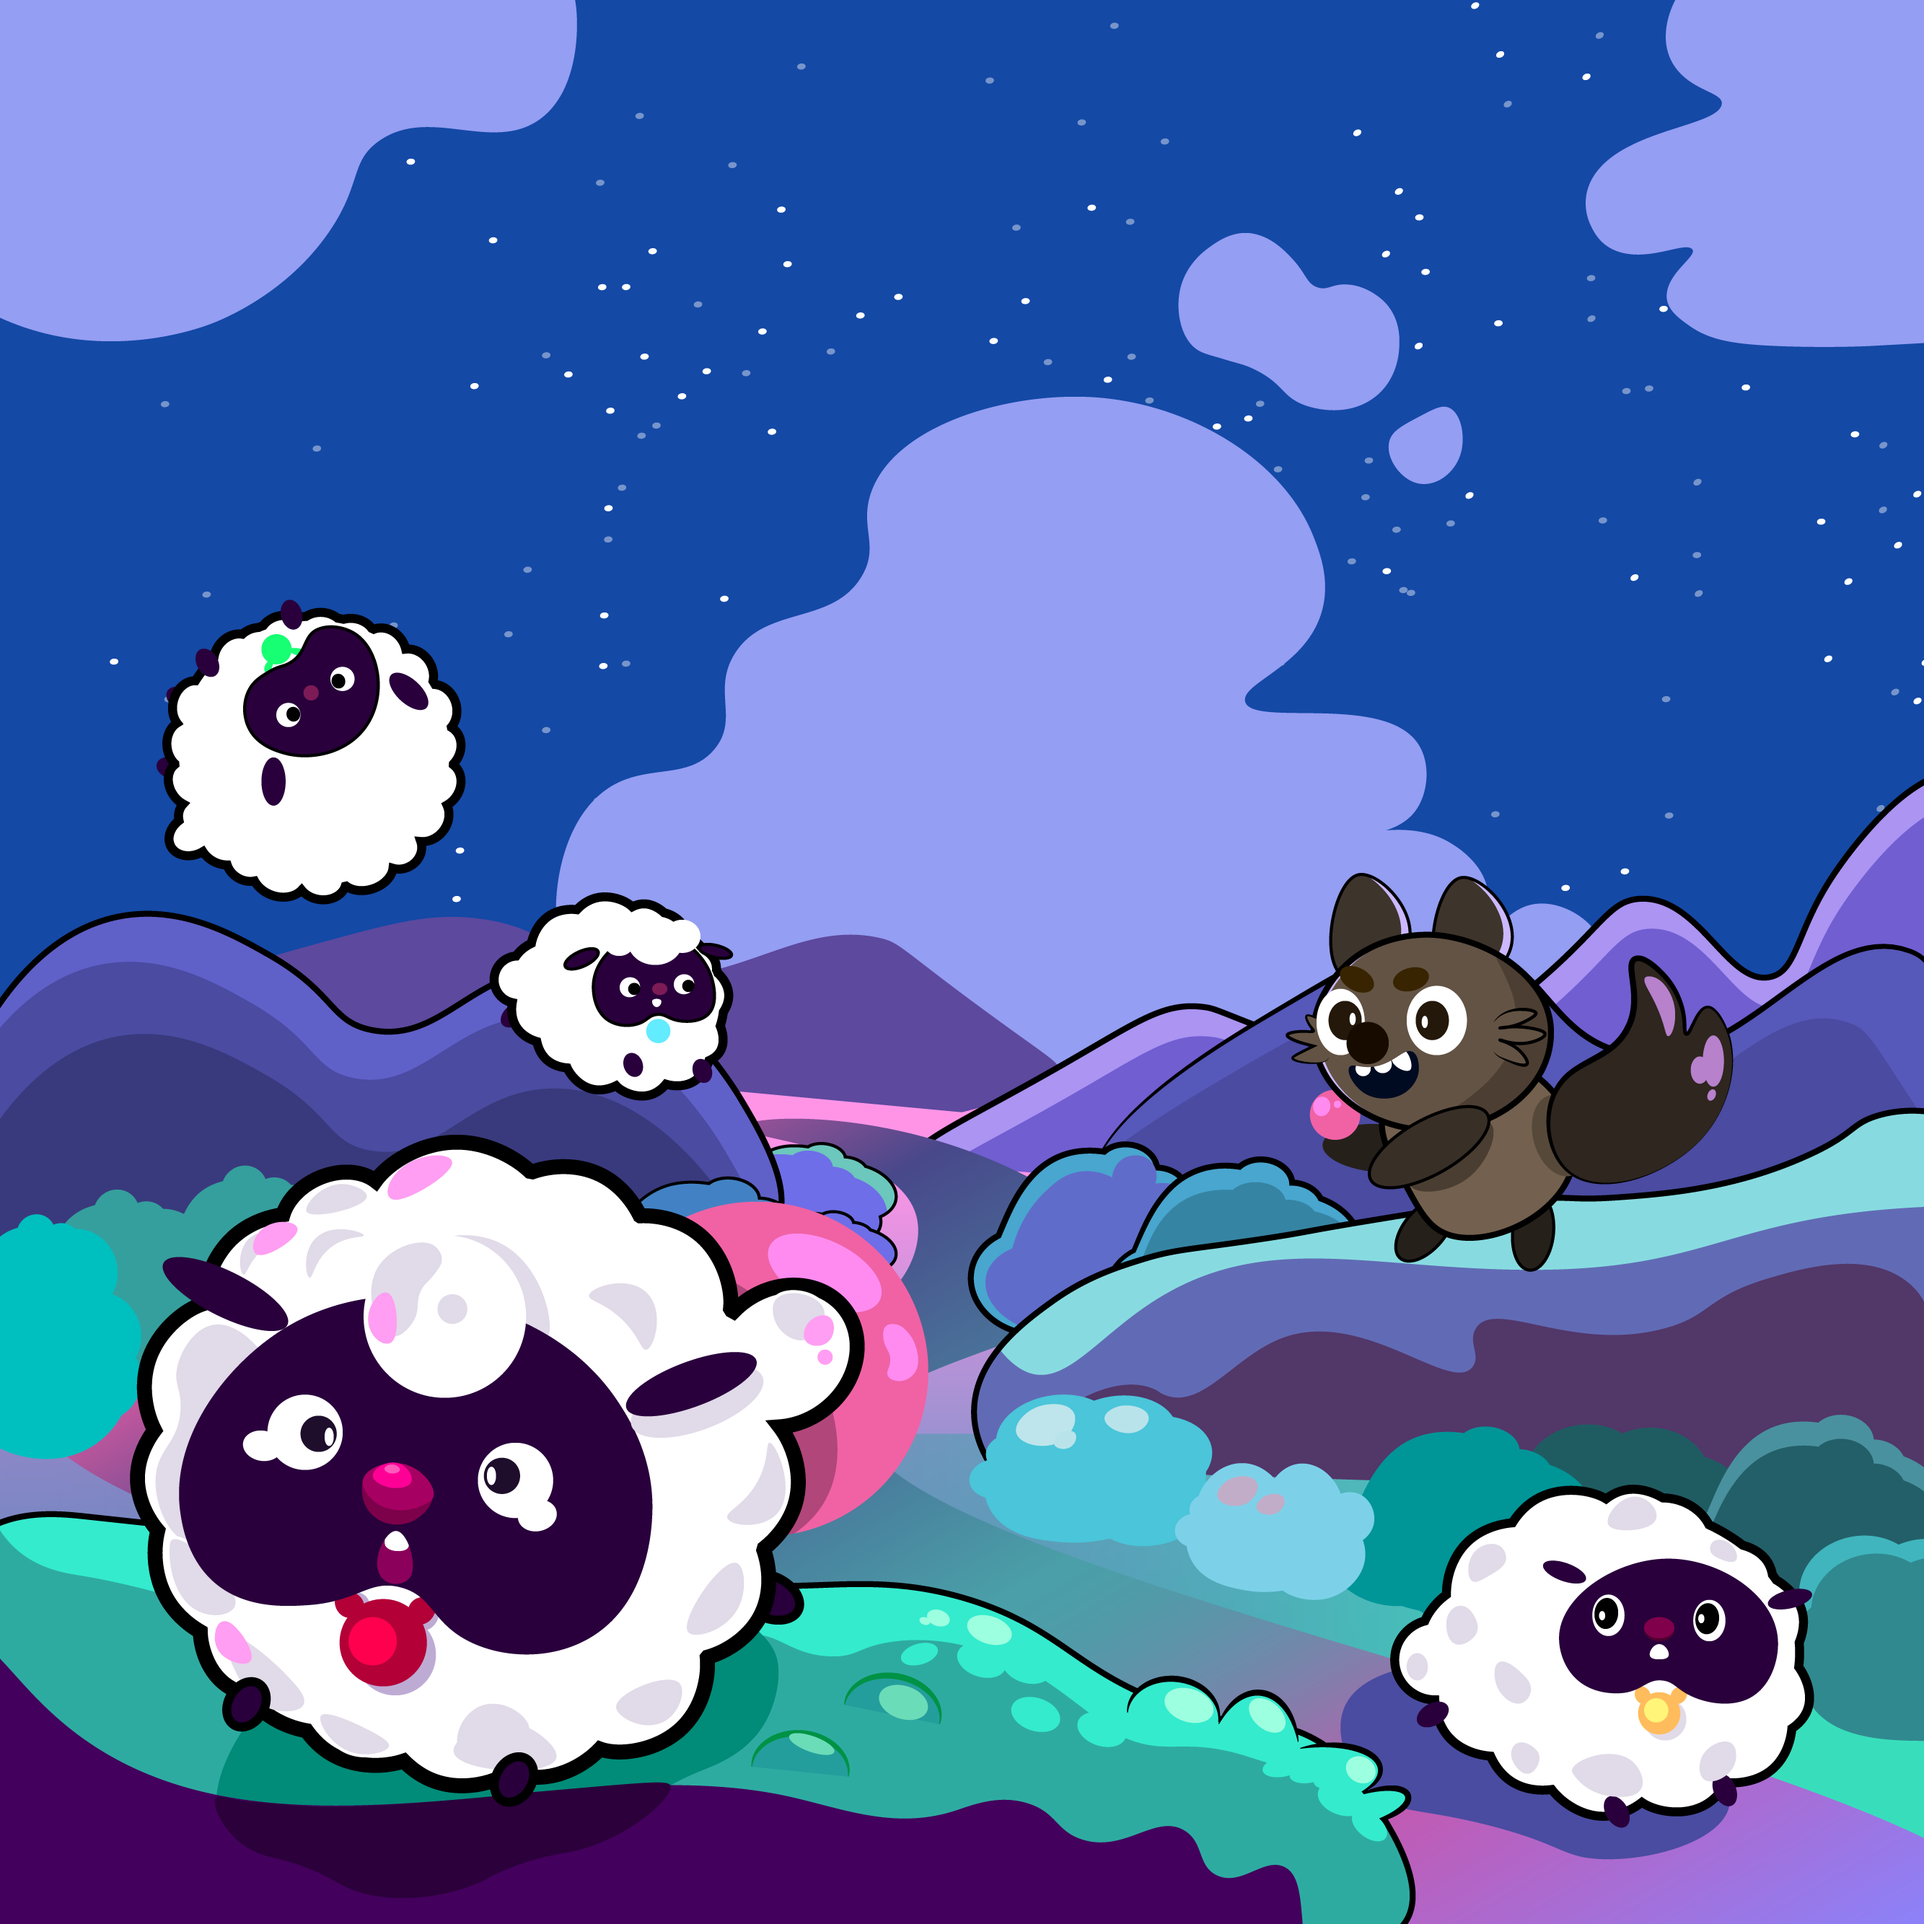
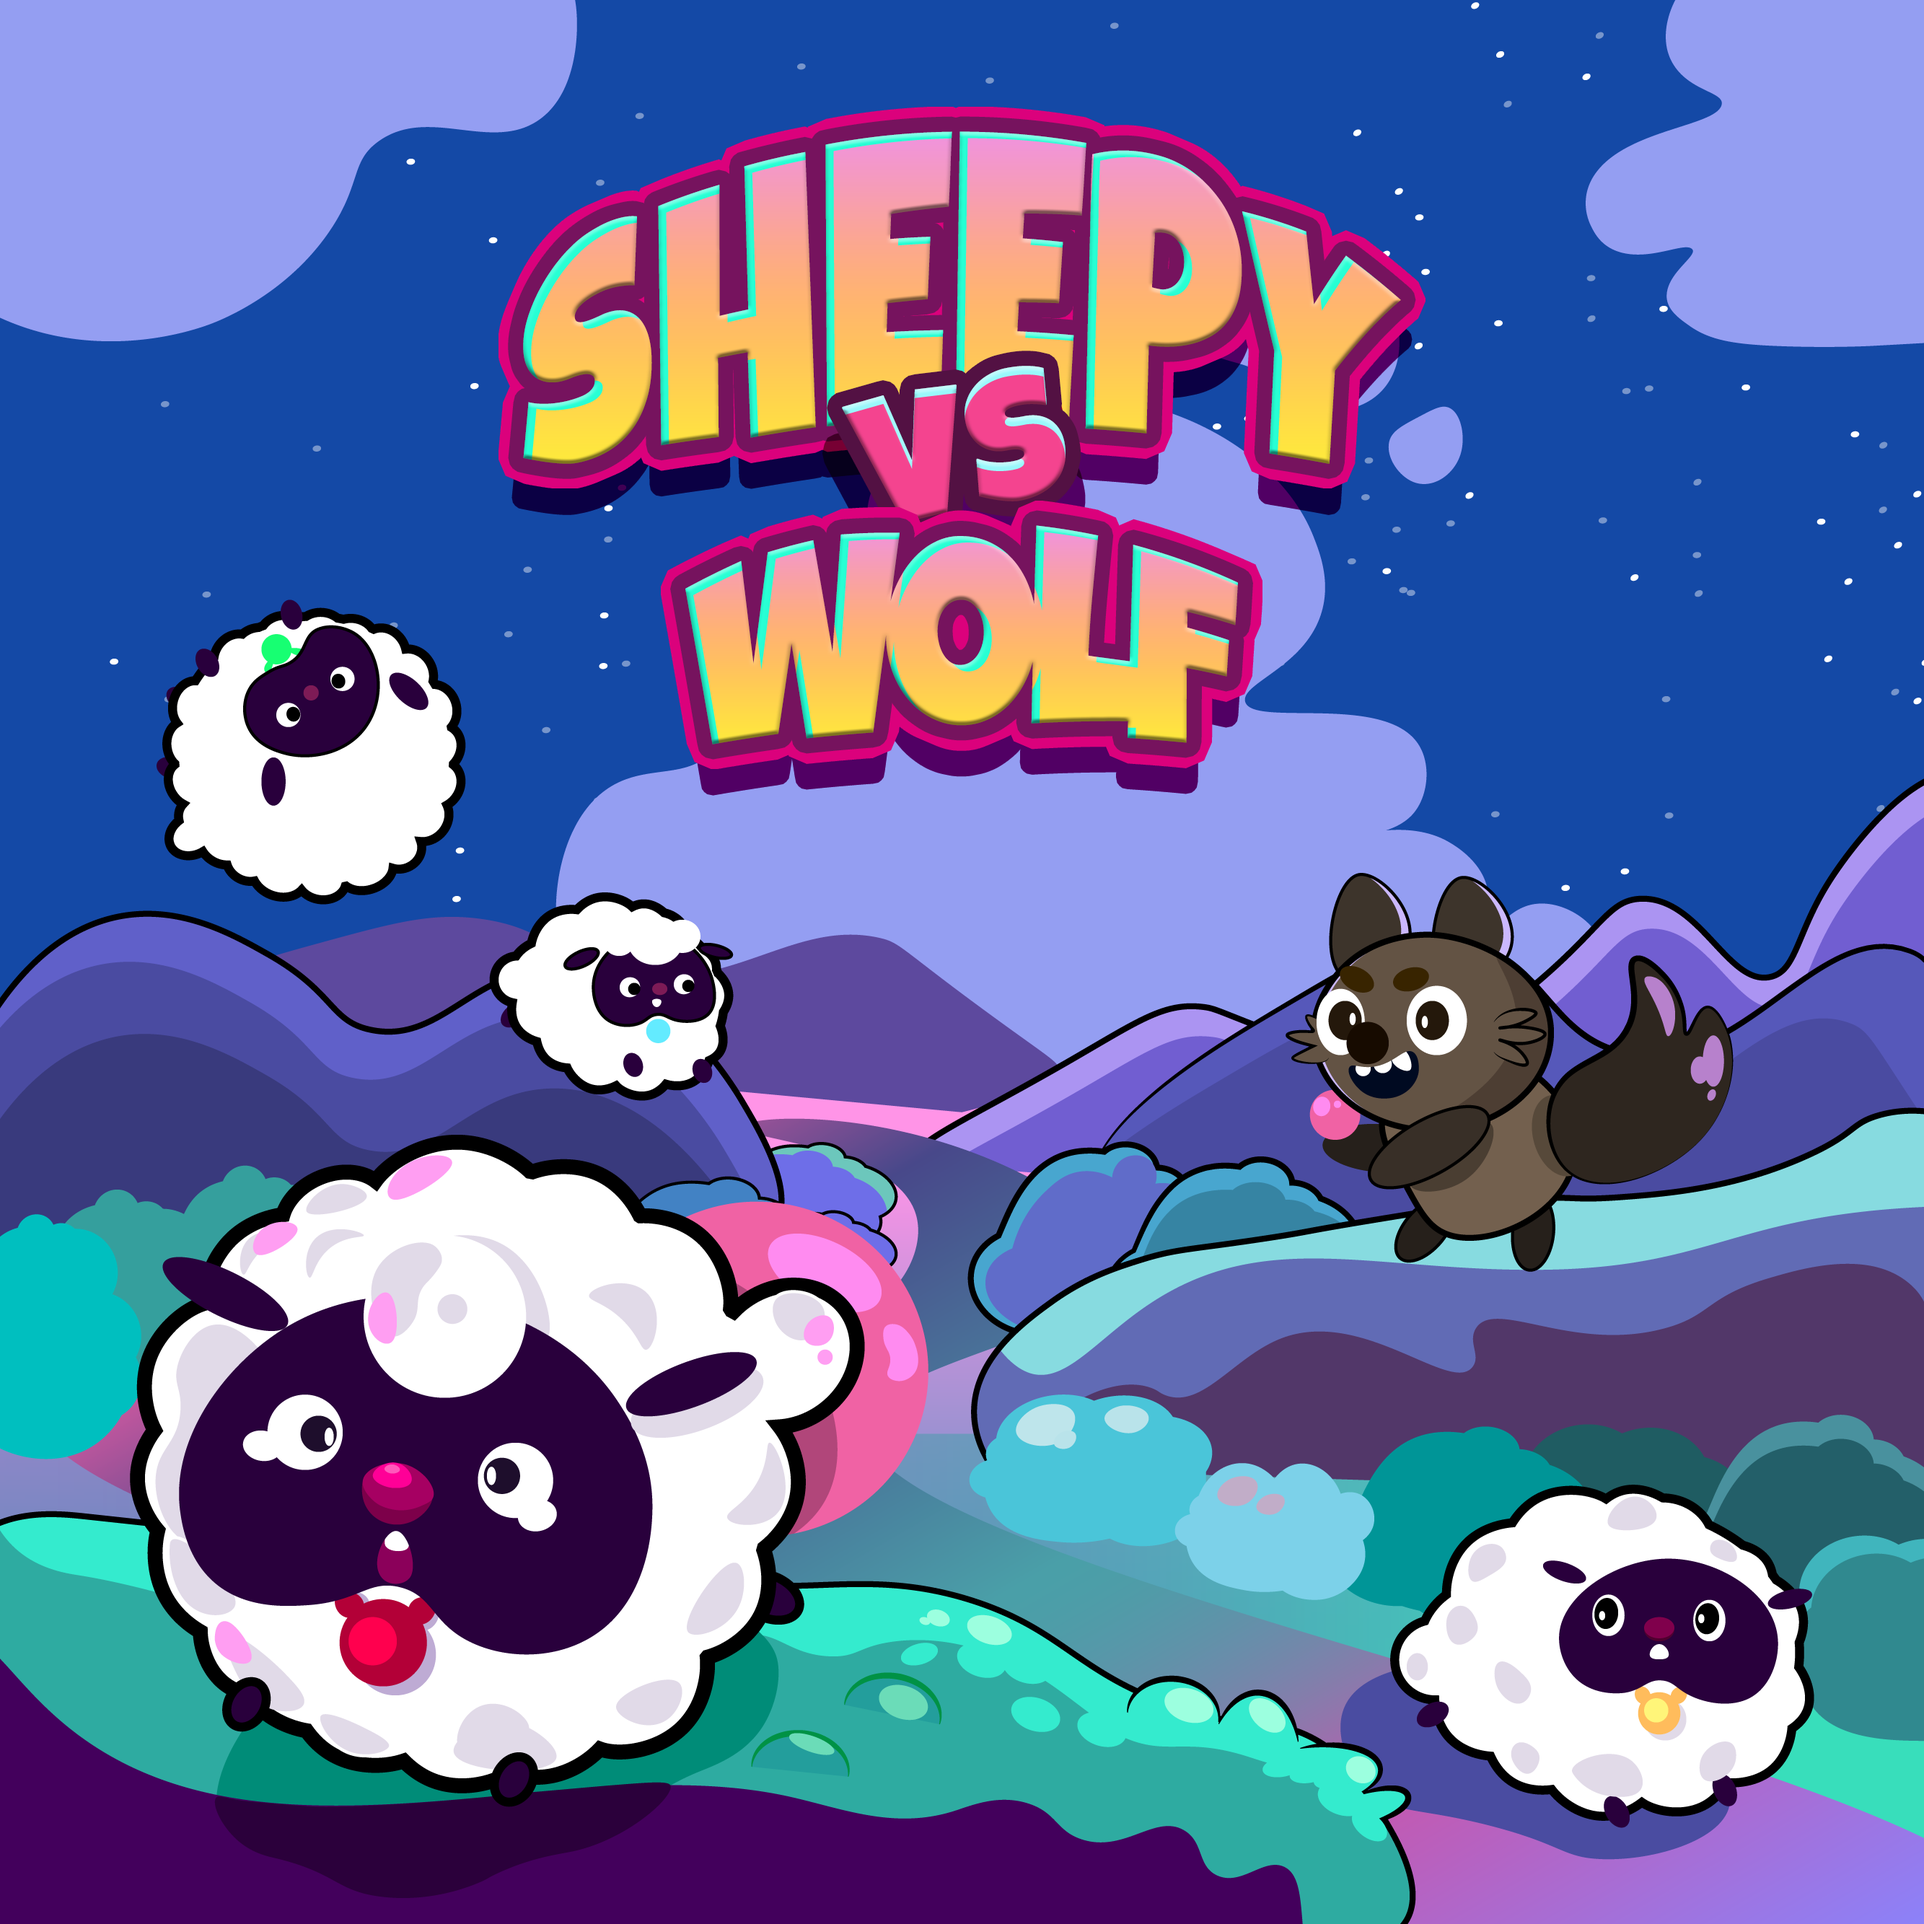
Decorate StartPage

Changed region(s): [[0.249, 0.0311, 0.7469, 0.4357]]

diff --git a/src/com/sheepy/catchme/StartScene.java b/src/com/sheepy/catchme/StartScene.java
@@ -1,20 +1,50 @@
 package com.sheepy.catchme;
 import java.awt.*;
+import java.awt.image.BufferedImage;
+import java.io.IOException;
+
+import javax.imageio.ImageIO;
 import javax.swing.*;
 public class StartScene extends JPanel {
 	private static final long serialVersionUID = 1L;
 	private JFrame fr;
-	private JPanel buttons;
-	
+	private JButton bn1, bn2;
 	public StartScene() {
 		fr = new JFrame(Game.TITLE);
-		buttons = new JPanel(new GridBagLayout());
-		fr.setDefaultCloseOperation(JFrame.EXIT_ON_CLOSE);
+		fr.setDefaultCloseOperation(WindowConstants.EXIT_ON_CLOSE);
 
-        buttons.add(new JButton("Start"));
-		fr.add(buttons);
+		this.setLayout(new GridBagLayout());
+		bn1 = new JButton("Start");
+		bn1.setFont(new Font("TimesRoman", Font.BOLD, 20));
+		bn1.setBorder(null);
+		bn1.setBackground(Color.cyan);
+		
+        this.add(bn1);
+		fr.add(this);
 		fr.setSize(640, 640);
+		fr.setResizable(false);
 		fr.setVisible(true);
+		this.revalidate();
+		this.repaint();
+	}
+	
+	@Override
+	public void paint(Graphics g) {
+		// paint ...
+		super.paint(g);
+
+        Graphics2D g2d = (Graphics2D) g;
+        g2d.setRenderingHint(RenderingHints.KEY_ANTIALIASING, RenderingHints.VALUE_ANTIALIAS_ON);
+        
+        try {
+			BufferedImage img = ImageIO.read(getClass().getResource("image/game_start.png"));
+			g.drawImage(img, 0, 0, this.getWidth(), this.getHeight(), null);
+			System.out.println(1);
+		} catch (IOException e) {
+			// TODO Auto-generated catch block
+			e.printStackTrace();
+		}
+        
 	}
 	
 	public static void main(String[] args) {
